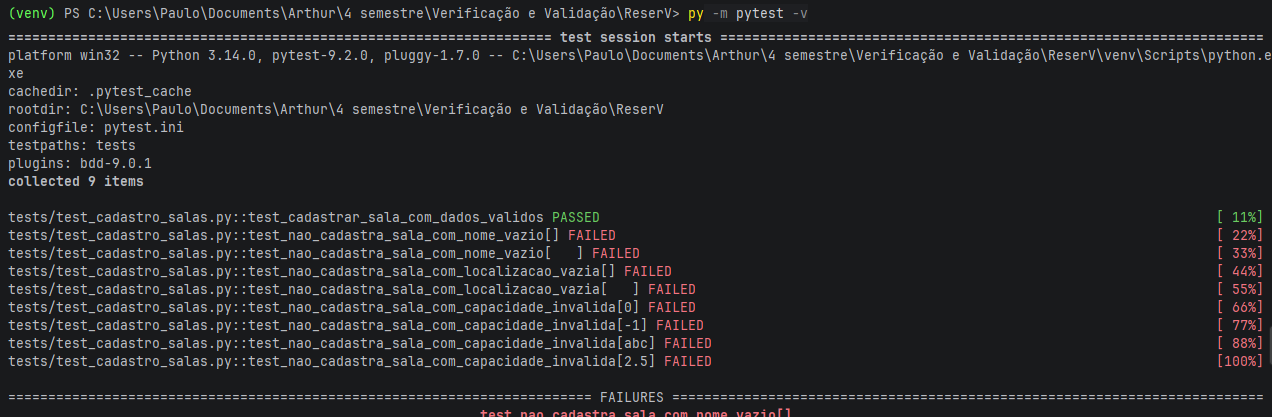
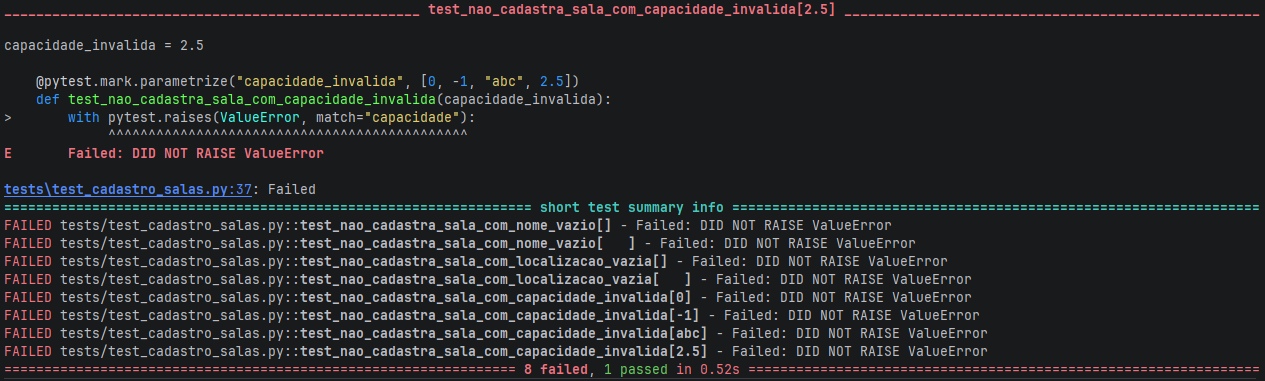
docs: adiciona registro dos ciclos TDD/BDD e README

Changed region(s): [[0.0, 0.4619, 1.0, 1.0], [0.0, 0.0, 1.0, 0.1444], [0.0, 0.1732, 0.5241, 0.4619]]

diff --git a/docs/registro_tdd.md b/docs/registro_tdd.md
@@ -1,0 +1,212 @@
+# Registro de Desenvolvimento (TDD e BDD)
+
+**Projeto:** Sistema de Agendamento e Reserva de Salas (Python, terminal)
+**Integrante:** 1 — Cadastro de salas — Arthur de Almeida Fernandes
+**Funcionalidades desenvolvidas:** (1) Cadastrar sala e (2) Listar salas
+**Data:** 14/11/2026
+
+---
+
+## 1. Visão geral
+
+A parte do Integrante 1 foi desenvolvida com **TDD** (Test Driven Development) e **BDD** (Behavior Driven Development), sempre na ordem:
+
+1. **Red:** escrever o teste e executá-lo, comprovando que falha.
+2. **Green:** escrever o mínimo de código para o teste passar.
+3. **Refactor:** melhorar o código mantendo todos os testes passando.
+
+| Ferramenta | Uso |
+|---|---|
+| Python | Linguagem do sistema (execução pelo terminal) |
+| pytest | Testes automatizados (TDD) |
+| pytest-bdd | Execução dos cenários Gherkin (BDD) |
+| Git | Histórico: cada fase (Red, Green, Refactor) foi registrada em commit |
+
+Os dados ficam **somente em memória**, em listas e dicionários nativos do Python (sem banco de dados, JSON ou arquivos).
+
+## 2. Estrutura de arquivos
+
+```
+ReserV/
+├── main.py                     # ponto de entrada (py main.py)
+├── pytest.ini                  # configuração do pytest
+├── requirements.txt            # dependências
+├── src/
+│   ├── __init__.py
+│   ├── armazenamento.py        # lista de salas em memória e gerador de id
+│   ├── salas.py                # regras de negócio: cadastrar, listar, formatar
+│   └── interface.py            # menu do terminal (input/print)
+├── tests/
+│   ├── __init__.py
+│   ├── conftest.py             # zera o armazenamento antes de cada teste
+│   ├── test_cadastro_salas.py  # TDD: cadastro
+│   ├── test_listagem_salas.py  # TDD: listagem e formatação
+│   ├── test_bdd_salas.py       # BDD: passos dos cenários
+│   └── features/
+│       └── cadastro_salas.feature   # cenários em Gherkin
+└── docs/
+    ├── registro_tdd.md         # este documento
+    └── evidencias/             # prints dos ciclos
+```
+
+## 3. Decisões de projeto
+
+- **Formato da sala:** `{"id": int, "nome": str, "capacidade": int, "localizacao": str}`. É o formato compartilhado com os demais integrantes.
+- **Lista compartilhada:** `armazenamento.salas`. Todos os módulos devem acessá-la por `armazenamento.salas`, sem criar cópias próprias.
+- **Funções sem interface:** `salas.py` não usa `print` nem `input`; só recebe dados e devolve resultados. O menu (`interface.py`) é uma camada fina por cima.
+- **Erros de validação:** `cadastrar_sala` levanta `ValueError` com mensagem clara; nada é guardado quando o dado é inválido.
+- **Identificador único:** contador (`gerar_id`) que só aumenta. Assim, o id de uma sala excluída nunca é reaproveitado (importante para as reservas e para a exclusão do Integrante 2).
+- **Listagem:** `listar_salas` devolve uma **cópia** da lista, para quem chamar não alterar o armazenamento sem querer.
+- **Apresentação:** `formatar_listagem` devolve o texto da tabela (ou a mensagem "Não há salas disponíveis."), mantendo a lógica separada do terminal.
+
+## 4. Resumo dos ciclos TDD
+
+| Ciclo | Foco | Testes | Red | Green | Refactor |
+|---|---|---|---|---|---|
+| 1 | Cadastro com dados válidos | 1 | `ImportError` (função inexistente) | 1 passed | Nenhum necessário |
+| 2 | Validações do cadastro | 8 casos | 1 passed, 8 failed | 9 passed | Função `_texto_preenchido` |
+| 3 | Várias salas e ids únicos | 2 | 10 passed, 1 failed | 11 passed | Função `_capacidade_valida` |
+| 4 | Listagem de salas | 2 | `ImportError` (função inexistente) | 13 passed | Nenhum necessário |
+| 5 | Formatação da listagem | 3 | `ImportError` (função inexistente) | 16 passed | `_calcular_larguras` e `TITULOS_LISTAGEM` |
+
+Total de testes TDD: **16**.
+
+---
+
+## 5. Detalhamento dos ciclos
+
+### Ciclo 0 — Preparação
+
+Estrutura de pastas conferida, ambiente virtual criado e dependências instaladas (`pytest`, `pytest-bdd`). Criados `pytest.ini`, `src/armazenamento.py` (lista `salas` e função `reiniciar`) e `tests/conftest.py`, com uma fixture automática que zera o armazenamento antes e depois de cada teste, garantindo que os testes sejam independentes.
+
+### Ciclo 1 — Cadastro com dados válidos
+
+- **Teste:** `test_cadastrar_sala_com_dados_validos`. Cadastra `("Sala 01", 20, "Bloco A")` e verifica os dados retornados, o `id` inteiro e a presença da sala em `armazenamento.salas`.
+- **Red:** `ImportError: cannot import name 'cadastrar_sala' from 'src.salas'`. A função ainda não existia.
+- **Green:** criada `cadastrar_sala` em `src/salas.py` com o mínimo necessário (id provisório `len + 1`). Resultado: 1 passed.
+- **Refactor:** nada a melhorar nesta etapa.
+
+Evidências: ![Red](evidencias/ciclo1_red.jpg) ![Green](evidencias/ciclo1_green.png)
+
+### Ciclo 2 — Validações do cadastro
+
+- **Testes:**
+  - `test_nao_cadastra_sala_com_nome_vazio` (casos: `""` e `"   "`);
+  - `test_nao_cadastra_sala_com_localizacao_vazia` (casos: `""` e `"   "`);
+  - `test_nao_cadastra_sala_com_capacidade_invalida` (casos: `0`, `-1`, `"abc"`, `2.5`).
+  Cada um exige `ValueError` com a palavra-chave na mensagem e verifica que a lista continua vazia.
+- **Red:** 1 passed, 8 failed, com `Failed: DID NOT RAISE <class 'ValueError'>`. A função aceitava dados inválidos.
+- **Green:** validações de nome, localização e capacidade antes de gravar. Resultado: 9 passed.
+- **Refactor:** extraída a função `_texto_preenchido`, que eliminou a repetição entre nome e localização. 9 passed.
+
+Evidências: ![Red](evidencias/ciclo2_red.png) ![Red](evidencias/ciclo2_pt2_red.png) ![Green](evidencias/ciclo2_green.png) ![Refactor](evidencias/ciclo2_refactor.png)
+
+### Ciclo 3 — Várias salas e ids únicos
+
+- **Testes:**
+  - `test_cadastrar_varias_salas`: três salas guardadas em ordem, com ids `[1, 2, 3]`. Este teste já passava com o código existente e documenta o requisito.
+  - `test_id_nao_e_reaproveitado_apos_remocao`: simula a exclusão de uma sala (funcionalidade do Integrante 2) e exige que o novo id não repita um id existente.
+- **Red:** 10 passed, 1 failed (`assert 2 == 3`). O cálculo `len + 1` gerava um id duplicado após a remoção.
+- **Green:** criados `gerar_id()` e o contador `_proximo_id` em `armazenamento.py`; `reiniciar()` passou a zerar o contador. Resultado: 11 passed.
+- **Refactor:** extraída a função `_capacidade_valida`, deixando as três validações no mesmo padrão. 11 passed.
+
+Evidências: ![Red](evidencias/ciclo3_red.png) ![Red](evidencias/ciclo3_pt2_red.png) ![Green](evidencias/ciclo3_green.png) ![Refactor](evidencias/ciclo3_refactor.png)
+
+### Ciclo 4 — Listagem de salas
+
+- **Testes:**
+  - `test_listar_salas_cadastradas`: duas salas cadastradas aparecem na listagem, com todos os dados, na ordem de cadastro;
+  - `test_listar_salas_sem_nenhuma_cadastrada`: sem salas, a listagem é uma lista vazia.
+- **Red:** `ImportError: cannot import name 'listar_salas' from 'src.salas'`.
+- **Green:** criada `listar_salas()`, que devolve uma cópia da lista guardada. Resultado: 13 passed.
+- **Refactor:** nada a melhorar nesta etapa.
+
+Evidências: ![Red](evidencias/ciclo4_red.png) ![Green](evidencias/ciclo4_green.png)
+
+### Ciclo 5 — Formatação da listagem
+
+- **Testes:**
+  - `test_formatar_listagem_sem_salas_informa_que_nao_ha_salas`;
+  - `test_formatar_listagem_mostra_todos_os_dados_das_salas` (cabeçalho, separador e uma linha por sala);
+  - `test_formatar_listagem_alinha_as_colunas` (usa um nome longo ao lado de um curto).
+- **Red:** `ImportError: cannot import name 'formatar_listagem' from 'src.salas'`.
+- **Green:** criadas `formatar_listagem` e `_montar_linha`, com a largura de cada coluna ajustada ao maior texto. Resultado: 16 passed.
+- **Refactor:** cálculo das larguras movido para `_calcular_larguras` e títulos reunidos na constante `TITULOS_LISTAGEM`. 16 passed.
+
+Evidências: ![Red](evidencias/ciclo5_red.png) ![Green](evidencias/ciclo5_green.png) ![Refactor](evidencias/ciclo5_refactor.png)
+
+Exemplo de saída da listagem:
+
+```
+ID  Nome                        Capacidade  Localização
+--  --------------------------  ----------  -----------
+1   Sala 01                     20          Bloco A
+2   Laboratório de Informática  35          Bloco B
+```
+
+---
+
+## 6. BDD (Gherkin com pytest-bdd)
+
+Arquivo `tests/features/cadastro_salas.feature`, escrito em português (`# language: pt`), com **9 cenários**:
+
+| Tipo | Cenário |
+|---|---|
+| Positivo | Cadastrar uma sala com sucesso |
+| Positivo | Cadastrar várias salas |
+| Negativo | Não cadastrar sala com nome vazio |
+| Negativo | Não cadastrar sala com localização vazia |
+| Negativo | Não cadastrar sala com capacidade zero |
+| Negativo | Não cadastrar sala com capacidade negativa |
+| Negativo | Não cadastrar sala com capacidade que não é um número |
+| Positivo | Listar salas cadastradas |
+| Alternativo | Listar salas quando não há nenhuma cadastrada |
+
+- **Red:** com apenas `scenarios("features/cadastro_salas.feature")` em `tests/test_bdd_salas.py`, os 9 cenários falharam com `StepDefinitionNotFoundError`: o comportamento estava documentado, mas ainda sem automação.
+- **Green:** implementados os passos (`@given`, `@when`, `@then`) em `tests/test_bdd_salas.py`, ligando cada frase às funções `cadastrar_sala`, `listar_salas` e `formatar_listagem`. Resultado: 9 passed.
+- **Refactor:** um único passo parametrizado atende todos os cenários de cadastro; nenhuma alteração adicional foi necessária.
+
+Evidências: ![Red BDD](evidencias/bdd_red.png) ![Green BDD](evidencias/bdd_green.png)
+
+## 7. Interface de terminal
+
+`src/interface.py` e `main.py` ligam as duas funcionalidades a um menu (1 - Cadastrar sala, 2 - Listar salas, 0 - Sair). A camada só usa `input` e `print`; as regras continuam em `salas.py`. Por ser uma camada de ligação, foi validada por execução manual do programa (`py main.py`), cobrindo: listagem vazia, cadastro válido, nome vazio, capacidade inválida, listagem alinhada, opção inválida e saída.
+
+Evidência: ![Menu](evidencias/menu_terminal.png)
+
+## 8. Resultado final
+
+Suíte completa (`py -m pytest -v`): **25 testes passando** (16 de TDD e 9 de BDD).
+
+Evidência: ![Suíte completa](evidencias/suite_completa.png)
+
+### Rastreabilidade dos requisitos
+
+| Requisito | Teste TDD | Cenário BDD |
+|---|---|---|
+| Cadastrar sala com dados válidos | `test_cadastrar_sala_com_dados_validos` | Cadastrar uma sala com sucesso |
+| Nome não pode estar vazio | `test_nao_cadastra_sala_com_nome_vazio` | Não cadastrar sala com nome vazio |
+| Localização não pode estar vazia | `test_nao_cadastra_sala_com_localizacao_vazia` | Não cadastrar sala com localização vazia |
+| Capacidade inteira maior que zero | `test_nao_cadastra_sala_com_capacidade_invalida` | Capacidade zero, negativa e não numérica |
+| Identificador único | `test_cadastrar_varias_salas`, `test_id_nao_e_reaproveitado_apos_remocao` | Cadastrar várias salas |
+| Sala adicionada à lista em memória | `test_cadastrar_sala_com_dados_validos` | Cadastrar uma sala com sucesso |
+| Listar todas as salas | `test_listar_salas_cadastradas` | Listar salas cadastradas |
+| Mensagem quando não há salas | `test_formatar_listagem_sem_salas_informa_que_nao_ha_salas` | Listar salas quando não há nenhuma cadastrada |
+| Dados organizados no terminal | `test_formatar_listagem_mostra_todos_os_dados_das_salas`, `test_formatar_listagem_alinha_as_colunas` | Listar salas cadastradas |
+
+## 9. Integração com os demais integrantes
+
+- **Integrante 2 (editar e excluir):** altera ou remove itens de `armazenamento.salas`. Não precisa mexer no contador; o id de uma sala excluída não será reutilizado.
+- **Integrante 3 (reservas):** pode vincular reservas ao `id` da sala, que é único e estável.
+- **Integrante 4 (consultas):** pode usar `listar_salas()` e `formatar_listagem()` para exibir dados de salas.
+- **Menu:** cada integrante adiciona sua opção em `exibir_menu()` e um novo `elif` em `executar()` (`src/interface.py`). Convém combinar no grupo quem edita esse arquivo e quando, para evitar conflitos no Git.
+
+## 10. Como reproduzir
+
+```powershell
+python -m venv venv
+venv\Scripts\Activate.ps1
+pip install pytest pytest-bdd
+py -m pytest -v          # todos os testes
+py main.py               # executa o sistema
+```

diff --git a/README.md b/README.md
@@ -1,0 +1,76 @@
+# ReserV — Sistema de Agendamento e Reserva de Salas
+
+Sistema de terminal em Python para gerenciar salas e reservas. Este repositório contém a parte do **Integrante 1** (cadastro e listagem de salas), desenvolvida com TDD (pytest) e BDD (pytest-bdd).
+
+## Funcionalidades desta parte
+
+1. **Cadastrar sala:** nome, capacidade máxima e localização (todos obrigatórios; capacidade inteira maior que zero; id único gerado automaticamente).
+2. **Listar salas:** exibe id, nome, capacidade e localização em uma tabela alinhada, ou informa que não há salas disponíveis.
+
+Os dados ficam **somente em memória** e são perdidos ao fechar o programa.
+
+## Requisitos
+
+- Python 3.10 ou superior
+- Dependências: `pytest` e `pytest-bdd` (listadas em `requirements.txt`)
+
+## Instalação (Windows, PowerShell)
+
+```powershell
+python -m venv venv
+venv\Scripts\Activate.ps1
+pip install -r requirements.txt
+```
+
+Em Linux/Mac, ative o ambiente com `source venv/bin/activate`.
+
+## Executar o sistema
+
+```powershell
+py main.py
+```
+
+Menu:
+
+```
+=== Sistema de Agendamento e Reserva de Salas ===
+1 - Cadastrar sala
+2 - Listar salas
+0 - Sair
+```
+
+## Executar os testes
+
+```powershell
+py -m pytest -v                          # todos os testes (TDD e BDD)
+py -m pytest tests\test_cadastro_salas.py -v
+py -m pytest tests\test_listagem_salas.py -v
+py -m pytest tests\test_bdd_salas.py -v  # cenários BDD
+```
+
+## Estrutura
+
+```
+main.py                      ponto de entrada
+src/
+  armazenamento.py           lista de salas em memória e gerador de id
+  salas.py                   regras: cadastrar_sala, listar_salas, formatar_listagem
+  interface.py               menu do terminal
+tests/
+  conftest.py                zera o armazenamento entre os testes
+  test_cadastro_salas.py     testes TDD do cadastro
+  test_listagem_salas.py     testes TDD da listagem
+  test_bdd_salas.py          passos dos cenários BDD
+  features/cadastro_salas.feature   cenários em Gherkin
+docs/
+  registro_tdd.md            registro dos ciclos TDD/BDD com evidências
+```
+
+## Para os outros integrantes
+
+- Formato de cada sala: `{"id": int, "nome": str, "capacidade": int, "localizacao": str}`.
+- Os dados ficam na lista `armazenamento.salas`. Acesse sempre por `from src import armazenamento` e `armazenamento.salas`.
+- Para editar ou excluir uma sala, altere ou remova o item dessa lista. Os ids **não são reaproveitados**.
+- `cadastrar_sala(nome, capacidade, localizacao)` devolve a sala criada ou levanta `ValueError` com mensagem clara.
+- `listar_salas()` devolve uma cópia da lista; `formatar_listagem(lista)` devolve o texto da tabela.
+- Para incluir novas opções no menu, edite `exibir_menu()` e `executar()` em `src/interface.py`.
